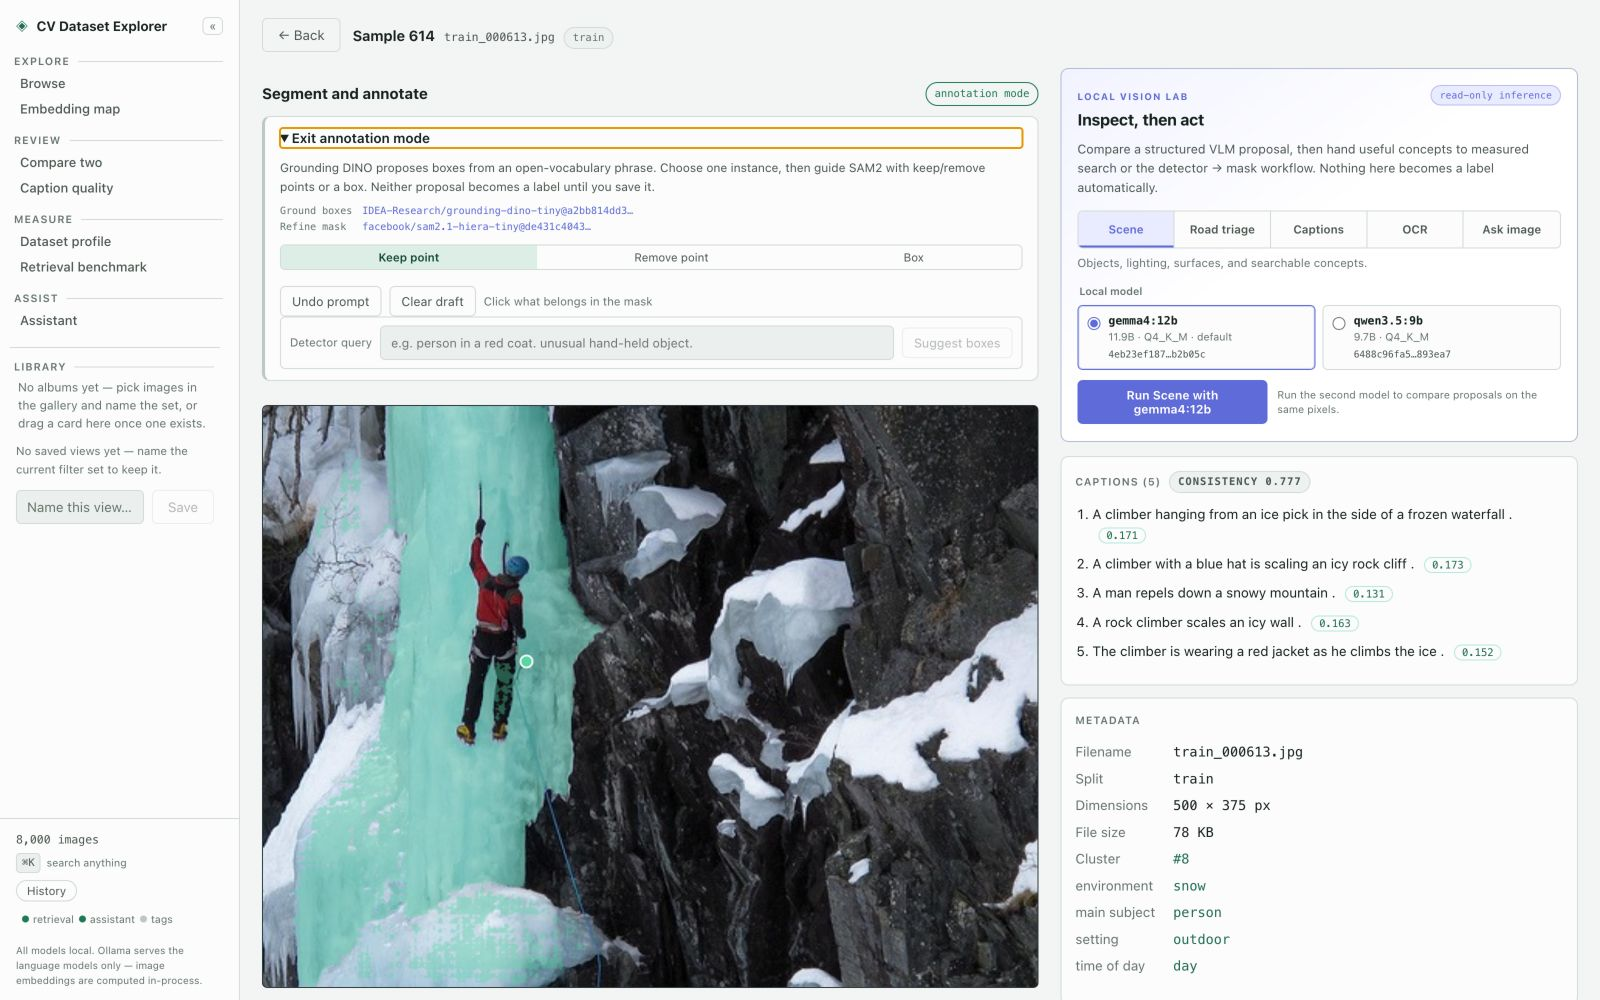
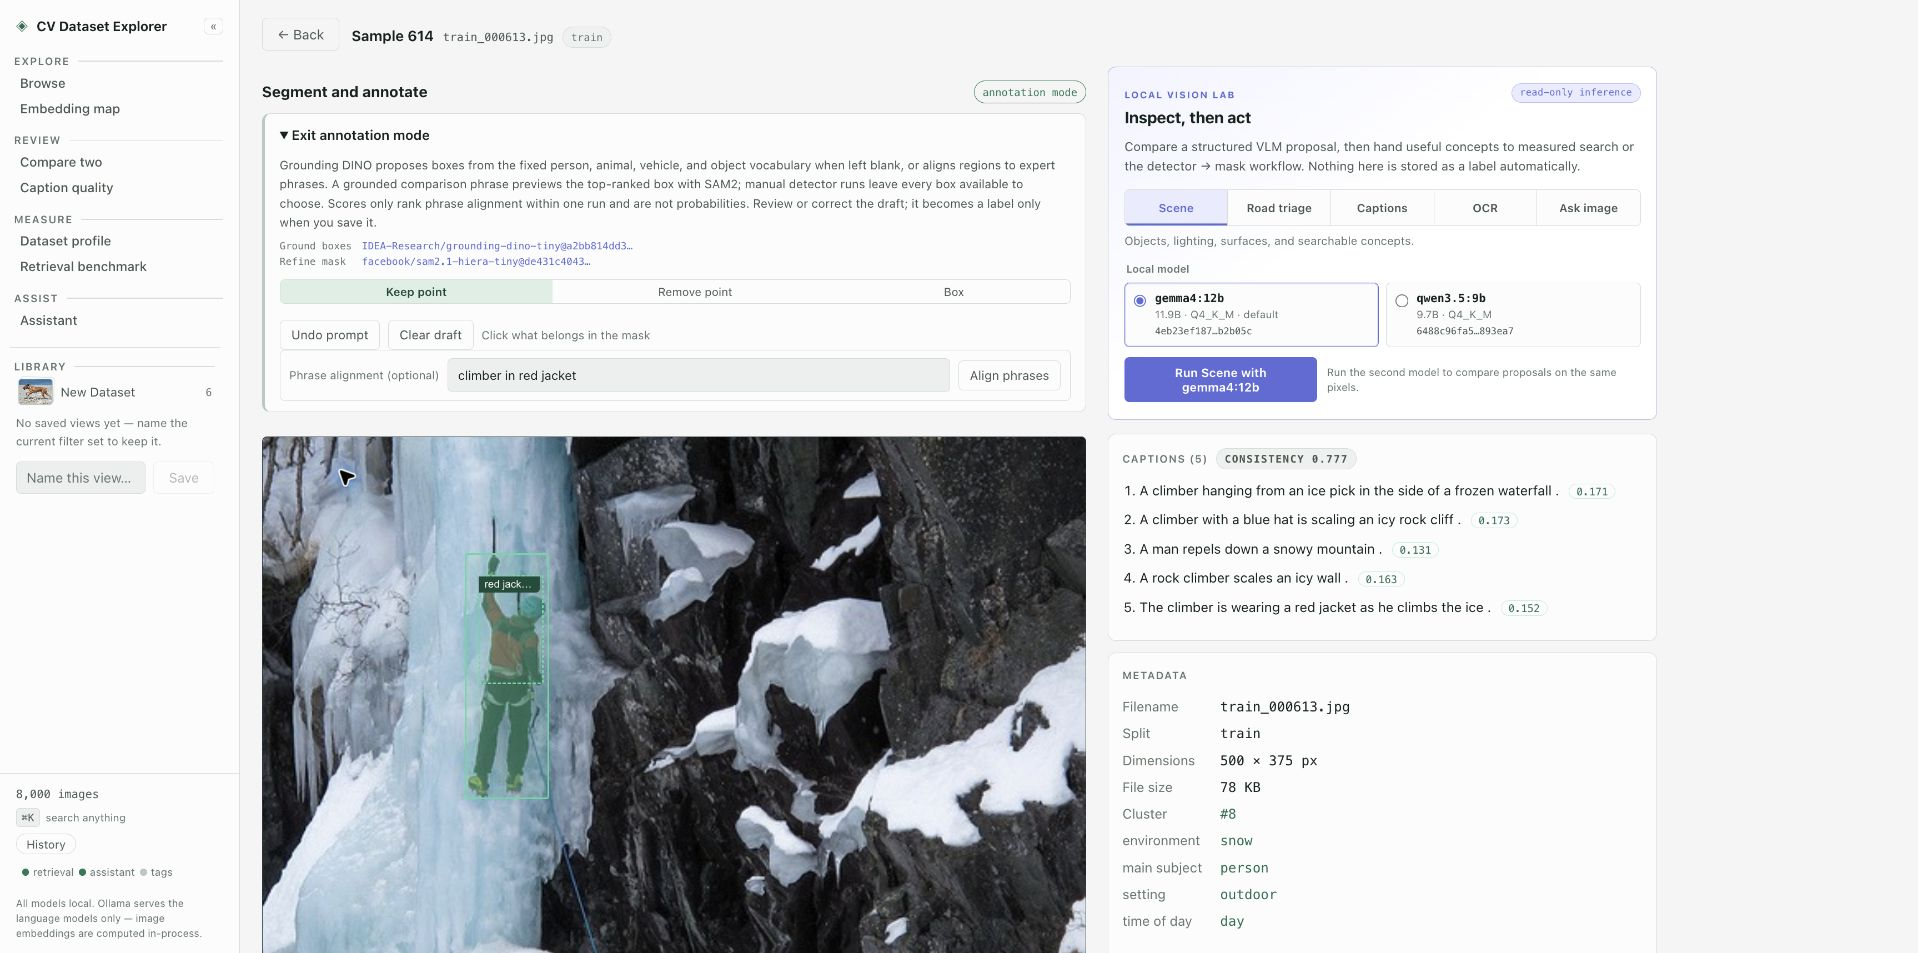
Document every visual workflow

diff --git a/docs/workflows.md b/docs/workflows.md
@@ -1,0 +1,239 @@
+# Visual workflow guide
+
+[← Back to the README](../README.md)
+
+This guide covers every top-level route and the cross-page workflows that turn a search into a reviewed, shareable research set. Follow [Run locally](../README.md#run-locally) first so the Flickr8k ingest, API, and frontend are available.
+
+The screenshots come from a verified local run over 8,000 images and 40,000 captions. Vision inspection, semantic pair comparison, detection, segmentation, and the assistant depend on the [optional local models](../README.md#optional-local-models). When one is unavailable, the interface keeps the core workflow usable and explains what is missing.
+
+VLM captions and semantic comparisons remain read-only. Proposed classes and detector boxes can seed a mask draft; only the reviewed annotation is persisted through **Accept & save**. A generated album summary is persisted only when it is explicitly saved.
+
+This is a local, unauthenticated, single-user application. Do not expose its API directly to a network.
+
+## Flows at a glance
+
+| # | Workflow | Start | Durable change? |
+| --- | --- | --- | --- |
+| 1 | Find, navigate, and resume | Any page | Only when saving or deleting a saved view |
+| 2 | Browse, search, filter, rank, and export | `/` | Settled searches add local History; saved views are explicit |
+| 3 | Search by image, example, exclusion, or region | `/`, a sample, or Compare | Adds local History; image bytes and crops stay transient |
+| 4 | Characterize and group a result set | `/` | Only when saving a proposed group as an album |
+| 5 | Explore embedding space | `/map` | Only when bulk-tagging the working set |
+| 6 | Triage caption quality | `/quality` | Only when recording a reviewer verdict or tag |
+| 7 | Inspect one sample | `/samples/:id` | Only through tag or annotation controls |
+| 8 | Run structured vision inspection | `/samples/:id` | No; inference is read-only |
+| 9 | Detect, segment, review, and save | `/samples/:id` | Only after **Accept & save** |
+| 10 | Compare two frames and ground a difference | `/compare?a=<id>&b=<id>` | No; grounding opens an unsaved sample draft |
+| 11 | Audit the dataset profile | `/stats` | No; the entire route is read-only |
+| 12 | Run the retrieval benchmark | `/eval` | Writes a local backend cache and mirrors the browser session; dataset records do not change |
+| 13 | Curate, analyze, share, and export an album | `/` or `/?album=<id>` | Album membership, order, details, and saved summaries |
+| 14 | Ask the local assistant and approve proposals | `/chat` | Stores a browser-local transcript; tags require approval |
+
+## 1. Find, navigate, and resume work
+
+**Goal:** reach a page, sample, tag, attribute, saved view, or action without losing the current investigation.
+
+1. Open the left rail, or press **Cmd/Ctrl+K** from any page.
+2. Type a page name, sample ID, tag, attribute, saved view, or search phrase.
+3. Use the arrow keys and Enter, or click the matching destination or action.
+4. Use **History** to reopen a prior search or album investigation.
+
+Navigation and restoration are read-only. Saved-view creation and deletion live in the left rail and write bookmark metadata to the local SQLite database.
+
+![Command palette filtered to the caption-quality route](../assets/command-palette.jpg)
+
+## 2. Browse, search, filter, rank, and export
+
+**Goal:** isolate a long-tail slice and understand why every frame appears in the ranking.
+
+1. Enter a query and choose keyword, semantic, or hybrid search.
+2. Narrow the corpus by split, attribute, tag, difficulty range, or an ID/filename list.
+3. Choose relevance or a difficulty axis for ordering, then set the tile density.
+4. Read the named score basis, score distribution, difficulty edge, and per-card provenance.
+5. Open a sample, load more results, save the view, or export the exact current slice.
+
+Filters intersect before ranking and live in the URL, so the slice is shareable. The difficulty edge and **dim below** handle are visual lenses: they do not filter, reorder, or change exports. A settled text or composed search appends an activity row to local History.
+
+![Searchable gallery with filters, findings, and image cards](../assets/gallery.jpg)
+
+![Search modes, ordering, and filters](../assets/search-settings.jpg)
+
+![A difficulty axis drawn on every ranked card](../assets/signal-edge.jpg)
+
+## 3. Search by image, example, exclusion, or drawn region
+
+**Goal:** retrieve visual concepts that are awkward to express with text alone.
+
+1. Upload, drop, or paste an image into the gallery; or start from a corpus sample.
+2. Choose **More like this** for a positive reference or exclude a reference to push that concept away.
+3. On a sample or Compare pane, draw a region and optionally add steering text.
+4. Inspect the cosine or composed-reference ranking, adjust references, and open the result as a shareable ID-list slice.
+
+Image search records its source name and result count in local History, but uploaded bytes and drawn crops are temporary search inputs. Corpus reference IDs can live in the URL. A crop does not become an annotation unless it separately passes the review and acceptance workflow.
+
+![Positive reference retained while two selected results are saved as an album](../assets/image-reference-search.png)
+
+## 4. Characterize and group a selected result set
+
+**Goal:** explain what distinguishes a slice and turn useful subgroups into reusable research sets.
+
+1. Create a search or filtered result set.
+2. Open **What is in this selection?** and inspect over- and under-represented facets with their raw counts.
+3. Drill into a facet, or switch to the grouped view to inspect proposed subgroups.
+4. Open a subgroup in the gallery or save it as an ordered album.
+
+Facets and groups are zero-shot hypotheses, not ground truth. Grouping stays transient until **Save as album** is chosen.
+
+![A selected set opened as a durable album with analysis controls](../assets/album-curation.jpg)
+
+## 5. Explore embedding space and build a working set
+
+**Goal:** find clusters, isolated samples, duplicate neighbourhoods, or an arbitrary spatial region.
+
+1. Open **Embedding map** and choose the point-colour basis.
+2. Pan, zoom, and hover to inspect local neighbourhoods.
+3. Switch to Select, or Shift-drag a lasso, to create a working set.
+4. Drop or restore thumbnails, scope the map to the set, tag it, or open it in the gallery.
+
+Projection distance is exploratory and can be distorted. The lasso and working set remain temporary until scoped into a URL or handed to the gallery; **Tag selection** is the map's direct bulk write, and the gallery can then add the set to an album.
+
+![Embedding map with a selected working set](../assets/embedding-map.jpg)
+
+## 6. Triage caption quality and record a verdict
+
+**Goal:** find captions that are weakly supported by their image or samples whose five captions disagree.
+
+1. Open **Caption quality** and move the review threshold.
+2. Switch between suspect-caption and least-consistent rankings.
+3. Open a row for pixel-level review, or send the thresholded slice to the gallery.
+4. Record a reviewer verdict or tag, then export the reviewed slice if needed.
+
+Agreement scores and the threshold are measurements, not truth. Moving the threshold is read-only; verdict and tag controls perform a write only after the server accepts the change.
+
+![Caption agreement distribution and the most suspect captions](../assets/caption-quality.jpg)
+
+## 7. Inspect one sample
+
+**Goal:** review the pixels and all stored evidence for one image before taking action.
+
+1. Open a result card to view the source image and search provenance.
+2. Read all five captions, metadata, split, cluster, attributes, and difficulty axes.
+3. Inspect nearest neighbours above and below the measured similarity floor.
+4. Move with Previous/Next or the keyboard, and add or remove a reviewer tag only when needed.
+
+Inspection is read-only except for visible tag and annotation controls. Neighbours below the floor provide context; they are not asserted matches.
+
+![Standard sample view with source pixels, captions, metadata, and navigation](../assets/sample-inspection.png)
+
+## 8. Run local structured vision inspection
+
+**Goal:** ask a local vision model for a structured scene, road-triage, caption, OCR, or focused-question proposal.
+
+1. On a sample, choose the inspection task and a ready local model.
+2. Run the inspection and read the structured proposal and its provenance, including model and input hashes, artifact details, latency, and prompt/schema versions.
+3. Compare a second model when useful.
+4. Search a proposed concept, hand it to the detector, or download the proposal as JSON.
+
+This panel is explicitly read-only inference. Nothing it proposes is stored as a label automatically.
+
+![Local vision inspection with a structured proposal](../assets/vision-inspector.jpg)
+
+## 9. Detect, segment, review, save, search, and export
+
+**Goal:** turn a grounded phrase or manual prompt into a reviewed SAM 2.1 mask and reusable artifact.
+
+1. Enter annotation mode on a sample.
+2. Leave the phrase blank for the visible fixed vocabulary, enter targeted phrases, or place keep/remove points or a box manually.
+3. Select a detector proposal and correct the mask with additional prompts.
+4. Name the class and optional parent, then inspect predicted IoU, image area, detector source, and geometry.
+5. Choose **Accept & save** only after review. A saved annotation can then seed search, export a transparent cutout/evidence package, or be deleted with confirmation.
+
+Detector boxes and SAM masks are drafts. No matching box stops before SAM; an unavailable detector leaves manual tools; an unavailable SAM leaves an unsavable box-only draft.
+
+![Grounding DINO proposal refined into an unsaved SAM 2.1 mask](../assets/segmentation.jpg)
+
+## 10. Compare two frames and ground a difference
+
+**Goal:** inspect an ordered A→B pair under synchronized zoom and pass a useful difference into the annotation review flow.
+
+1. Pick exactly two images, or fill the A and B panes directly.
+2. Pan and zoom either pane; both views stay synchronized.
+3. Review shared and differing stored signals, attributes, difficulty axes, cosine similarity, and the A-to-B neighbour rank.
+4. Optionally run semantic comparison after both source images decode.
+5. Verify the proposed differences against both frames, then choose a grounding phrase for image A or B.
+6. Review the detector-to-mask draft on that exact sample; save only from the sample page.
+
+Pair order matters. Accepted annotation overlays are read-only on Compare, drawn regions are temporary search inputs, and semantic differences remain proposals. Grounding opens a detector-to-mask draft and does not bypass annotation acceptance.
+
+![Completed A-to-B semantic comparison with grounding choices](../assets/pair-comparison.jpg)
+
+## 11. Audit the dataset profile
+
+**Goal:** answer five addressable questions about corpus size, split trust, prompt-slice coverage, caption health, and provenance.
+
+1. Read **Overview** for live image, caption, split, size, and capability counts.
+2. Open **Split integrity**, vary the near-duplicate threshold, and inspect candidate pairs.
+3. Open **Prompt slices** and drill a coverage bar into the gallery.
+4. Review **Caption health** distributions.
+5. Read **Provenance** for the pinned source, missing rows, bias, licensing, and known limitations.
+
+The entire route is read-only. Near-duplicate status depends on an uncalibrated threshold, and prompt slices are zero-shot hypotheses rather than ground-truth categories.
+
+![Dataset profile overview with live corpus and split counts](../assets/dataset-profile.jpg)
+
+## 12. Run the retrieval benchmark
+
+**Goal:** compare keyword, semantic, and hybrid text-to-image retrieval on the local Flickr8k ingest.
+
+1. Open **Retrieval benchmark** and run or re-run the evaluation.
+2. Compare R@1, R@5, R@10, MRR, median rank, and candidate counts.
+3. Read the protocol and fallback notes before comparing modes or external figures.
+
+The benchmark computes the result, writes a JSON cache under the configured cache directory, and mirrors the last response in the browser session; it does not mutate dataset records. Full-corpus retrieval is harder than published figures that rank against a 1,000-image candidate pool, so those numbers are not directly comparable.
+
+![Completed keyword, semantic, and hybrid retrieval benchmark](../assets/retrieval-benchmark.jpg)
+
+## 13. Curate, analyze, share, and export an ordered album
+
+**Goal:** turn transient picks or a proposed group into a durable research set.
+
+1. Pick images in the gallery and create or open an album.
+2. Reorder members, remove items, set the cover, and edit category or notes.
+3. Analyze stored signals or inspect album pixels with an optional local model.
+4. Review any generated summary before explicitly saving it.
+5. Copy the local share link or download CSV, JSONL, or JSON.
+
+Creation, membership, order, details, cover, summary save, removal, and deletion are writes. Album deletion requires confirmation. Share links point back to the local application; exports create copies without changing the dataset.
+
+![Ordered album with member controls, a summary, pixel-inspection setup, and exports](../assets/album-curation.jpg)
+
+## 14. Ask the local assistant and approve proposals
+
+**Goal:** route a research question to local specialists and receive traceable tables, charts, images, reports, or QA status.
+
+1. Start or reopen a conversation and ask a question or choose a prompt.
+2. Watch the live execution trace and inspect the returned artifacts.
+3. Sort, hover, and drill interactive blocks into gallery slices.
+4. Review tag proposals per sample; approve only the intended IDs or reject the proposal.
+5. Stop, retry, rename, or delete the local conversation as needed.
+
+The assistant is optional and experimental. Conversations persist in browser local storage. A proposal performs no write until the browser approves the selected IDs; Reject sends no write request. Verify quantitative conclusions against the underlying sources.
+
+![Optional local assistant with an interactive slice comparison](../assets/assistant.jpg)
+
+## Write boundaries and failure behavior
+
+| State or action | What happens |
+| --- | --- |
+| Filters, sorting, score dimming, quality thresholds, map lasso, profile views | Read-only view state |
+| Settled text, composed-reference, or image search | Appends an activity row to local History; uploaded bytes and crops are not stored |
+| Retrieval benchmark | Writes a configured local JSON cache and a browser-session copy; dataset records do not change |
+| Saved views, tags, album membership/order/details | Explicit local metadata write |
+| VLM captions and semantic comparison | Read-only proposal with no direct save path |
+| Proposed class, detector box, or SAM mask | Can seed a draft; only **Accept & save** on a reviewed annotation persists it |
+| Generated album summary | Draft until its own save action |
+| Assistant conversations | Stored in browser local storage; dataset records do not change |
+| Assistant tag approval | Writes only the individually selected sample IDs |
+| CSV, JSONL, JSON, cutout, or evidence export | Downloads a copy; source dataset records do not change |
+
+If an optional model is missing, the related panel shows its setup state instead of failing the rest of the application. If detection returns no box, SAM is not called. If SAM is unavailable, the detector result remains visible but cannot be saved as a mask. If a write request fails or the connection drops, reload the relevant view before retrying so the interface can reconcile with persisted state; do not assume the write either committed or rolled back.

diff --git a/README.md b/README.md
@@ -18,6 +18,9 @@ paid API.
 
 ![Searchable Flickr8k gallery](assets/gallery.jpg)
 
+For a task-by-task tour of every user-facing route and cross-page handoff, see
+the [visual workflow guide](docs/workflows.md).
+
 ## Run locally
 
 ### Requirements
@@ -93,15 +96,16 @@ stored under `backend/data/` in both workflows.
 
 ![Embedding map for dataset-level exploration](assets/embedding-map.jpg)
 
-Model output is always presented as a proposal. A VLM result can seed a
-detector-to-mask draft, but no caption, label, detector box, or segmentation is
-stored until a reviewer explicitly accepts it.
+Model output is always presented as a proposal. VLM captions and semantic
+comparisons remain read-only. Proposed classes and detector boxes can seed a
+mask draft; only the reviewed annotation is persisted through **Accept &
+save**. Generated album summaries are persisted only when explicitly saved.
 
 ![Local vision inspection with a structured proposal](assets/vision-inspector.jpg)
 
 ![Grounding DINO box refined into a reviewable SAM 2.1 mask](assets/segmentation.jpg)
 
-![Two-frame semantic comparison after source validation](assets/pair-comparison.jpg)
+![Completed two-frame semantic comparison with grounding handoffs](assets/pair-comparison.jpg)
 
 ## Reading a result set
 
